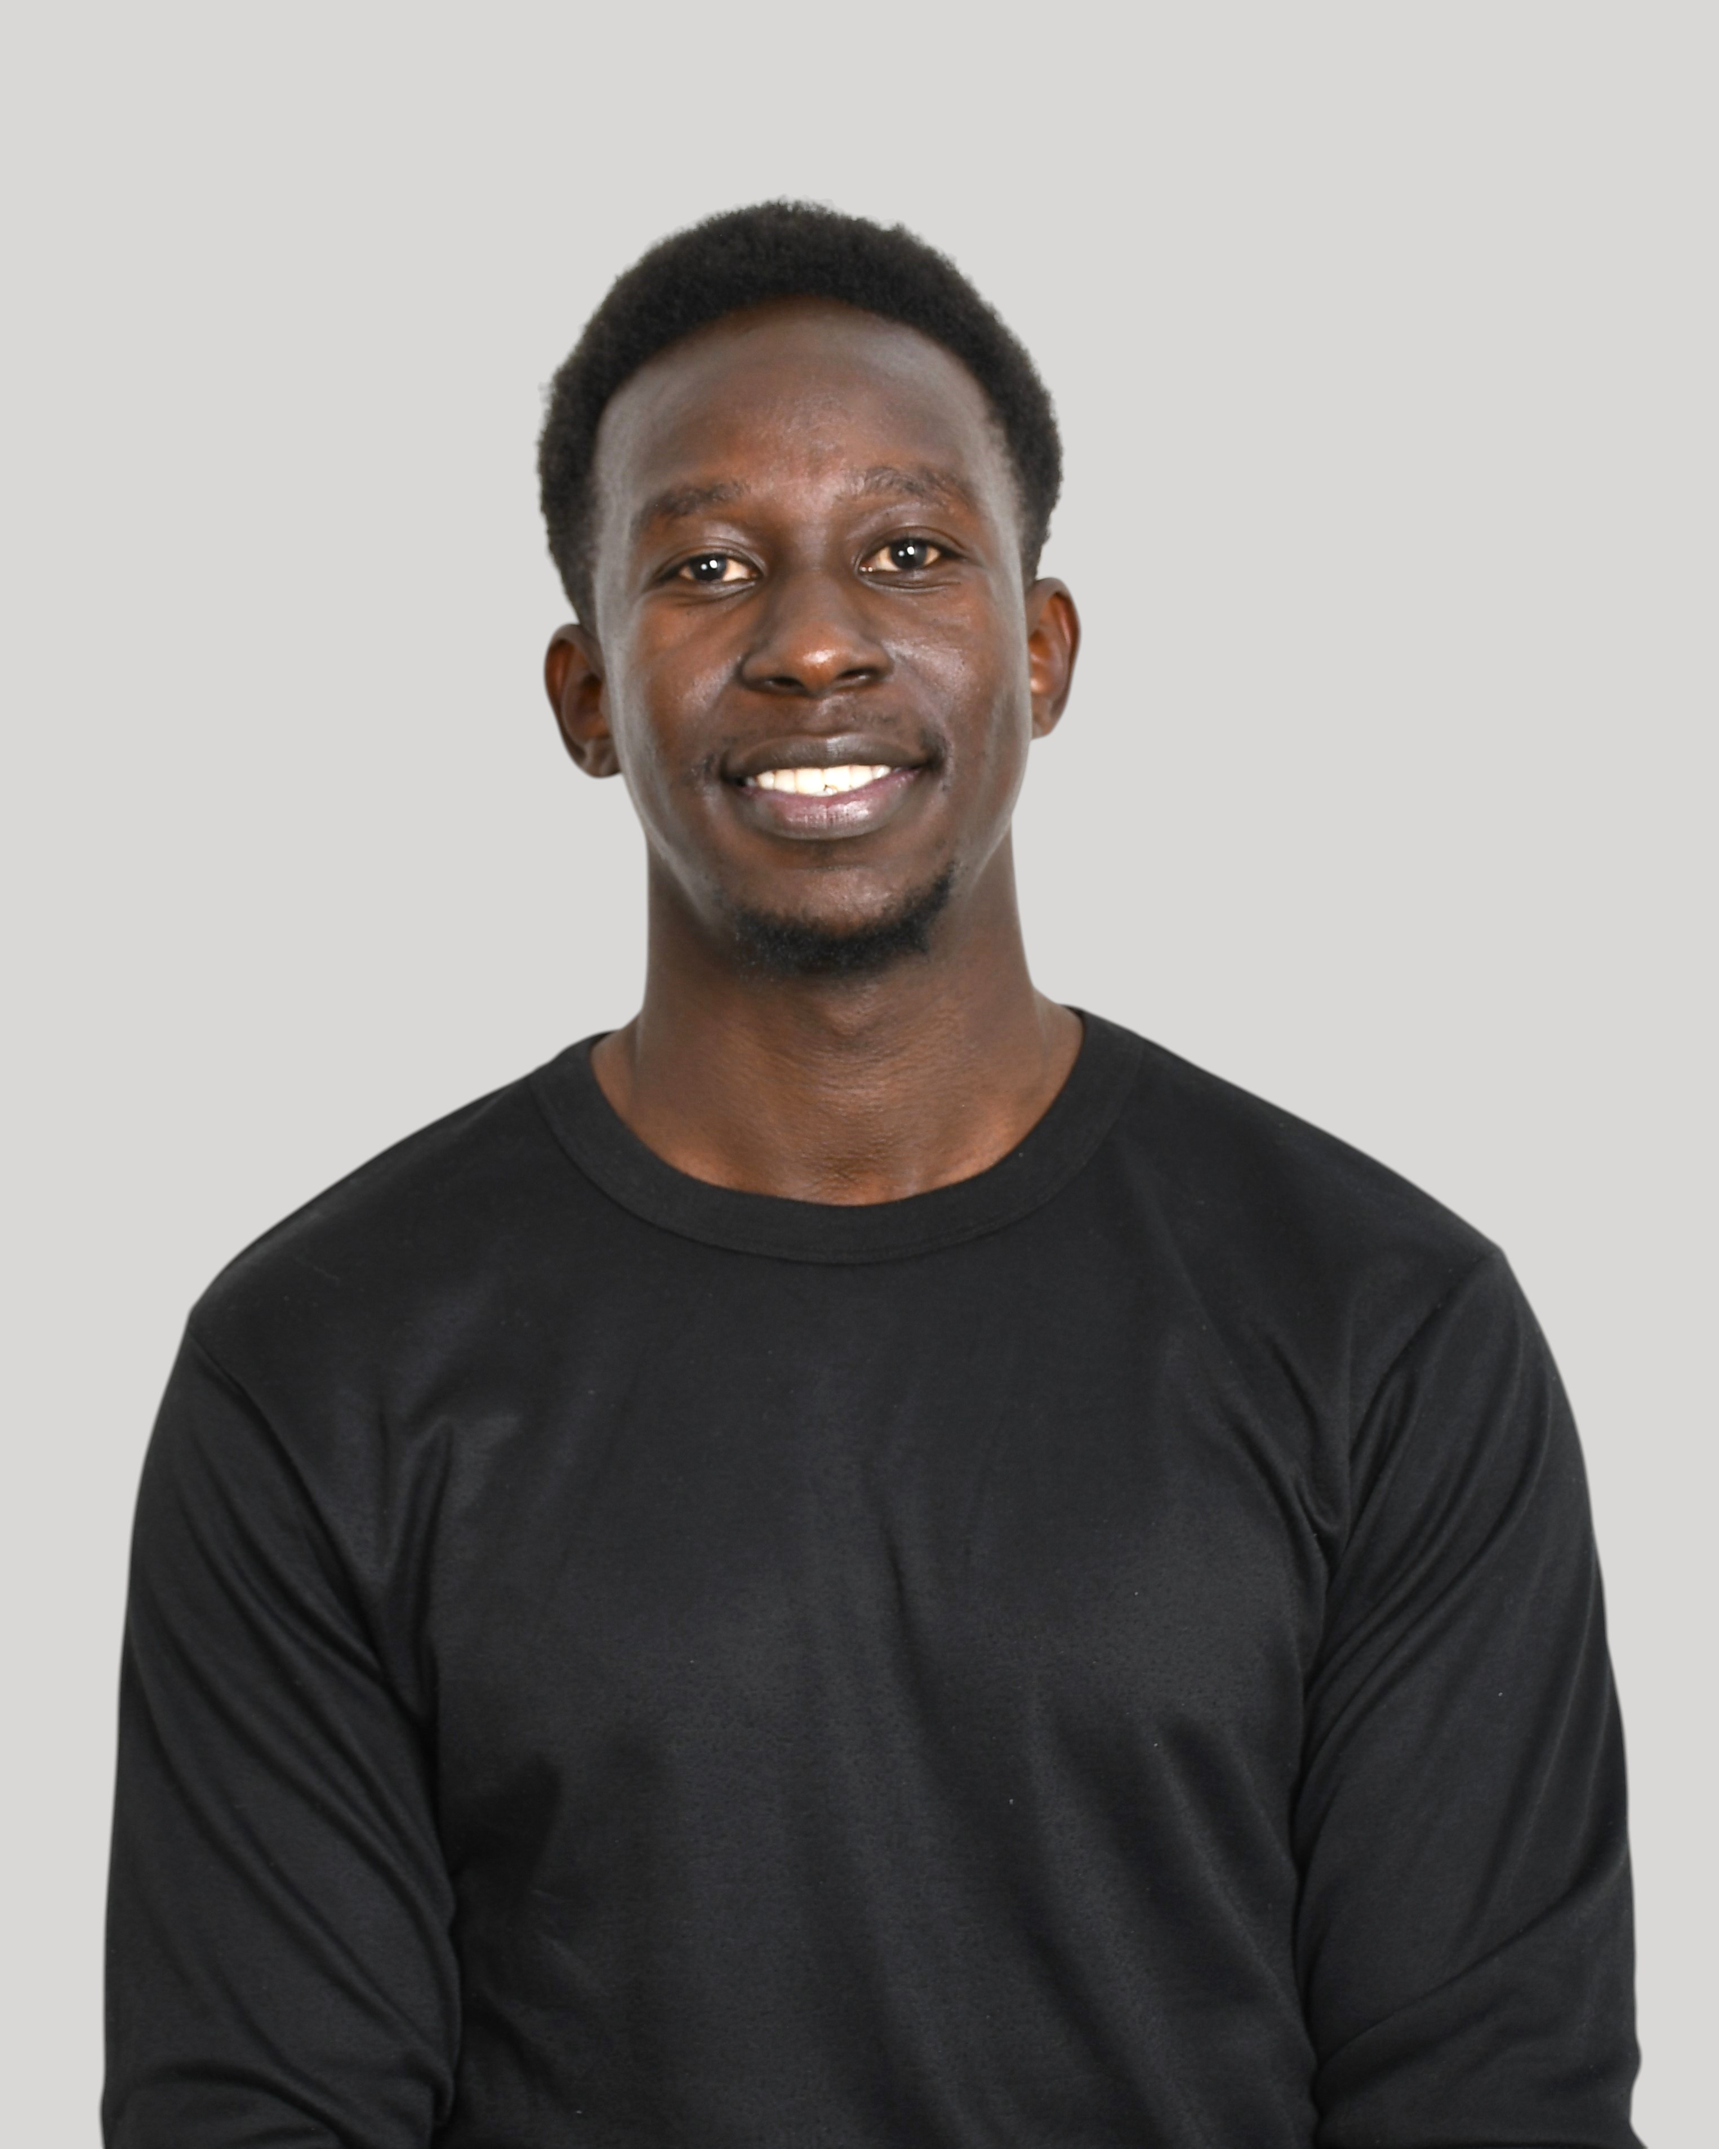
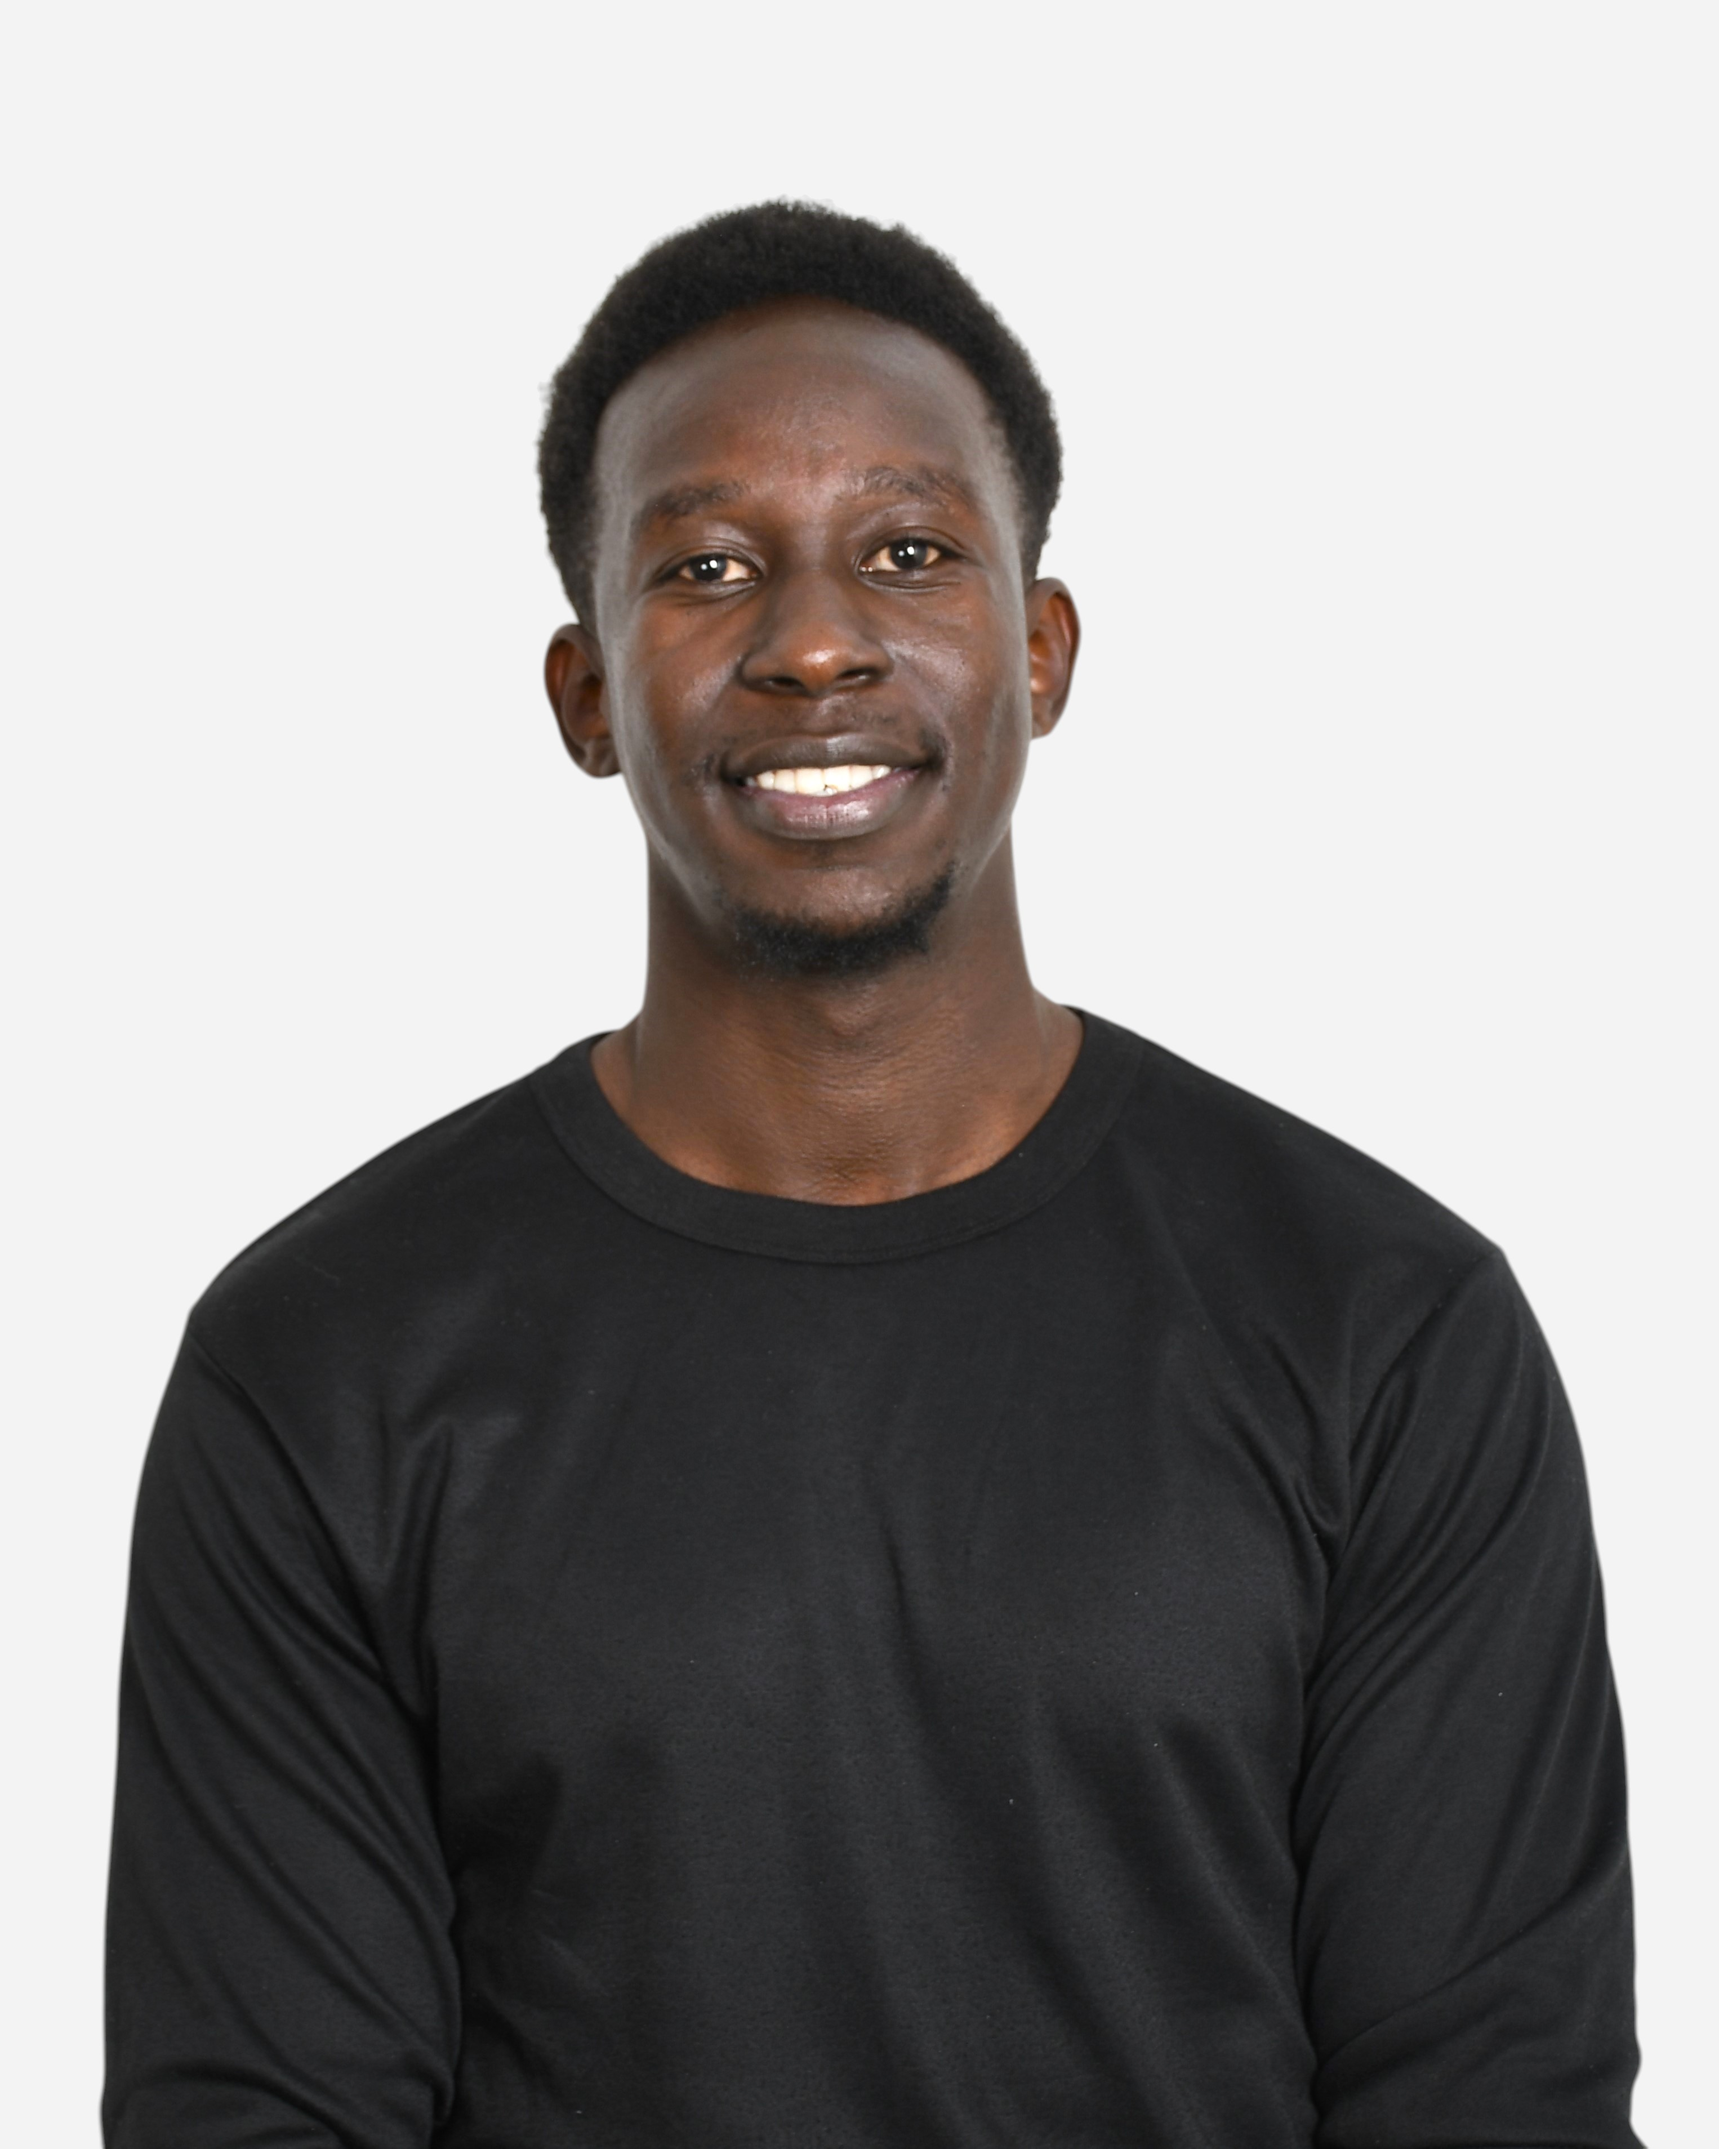
Customized image for better visibility

diff --git a/_pages/projects.md b/_pages/projects.md
@@ -8,10 +8,10 @@ nav_order: 3
 display_categories: [work, open-source, fun]
 horizontal: false
 ---
-
-working on them...
+Always building new projects, more on my [github](github.com/Markkimotho)
 
 <!-- pages/projects.md -->
+
 <div class="projects">
 {% if site.enable_project_categories and page.display_categories %}
   <!-- Display categorized projects -->
@@ -45,11 +45,11 @@ working on them...
 
 {% assign sorted_projects = site.projects | sort: "importance" %}
 
-  <!-- Generate cards for each project -->
+<!-- Generate cards for each project -->
 
 {% if page.horizontal %}
 
-  <div class="container">
+<div class="container">
     <div class="row row-cols-1 row-cols-md-2">
     {% for project in sorted_projects %}
       {% include projects_horizontal.liquid %}

diff --git a/_pages/cv.md b/_pages/cv.md
@@ -5,7 +5,7 @@ title: cv
 nav: true
 nav_order: 5
 cv_pdf: Mark K Tinega's_Resume.pdf # you can also use external links here
-description: This page holds my CV. You can read/review/critique it right from here. Or better yet, you can download it by clicking the top right "pdf" icon ☝🏽. Then you can read/review/critique.
+description: This page holds my CV. If you want to collaborate or hire me, feel free to review it and also download the pdf version on the top right.
 toc:
   sidebar: left
 ---
